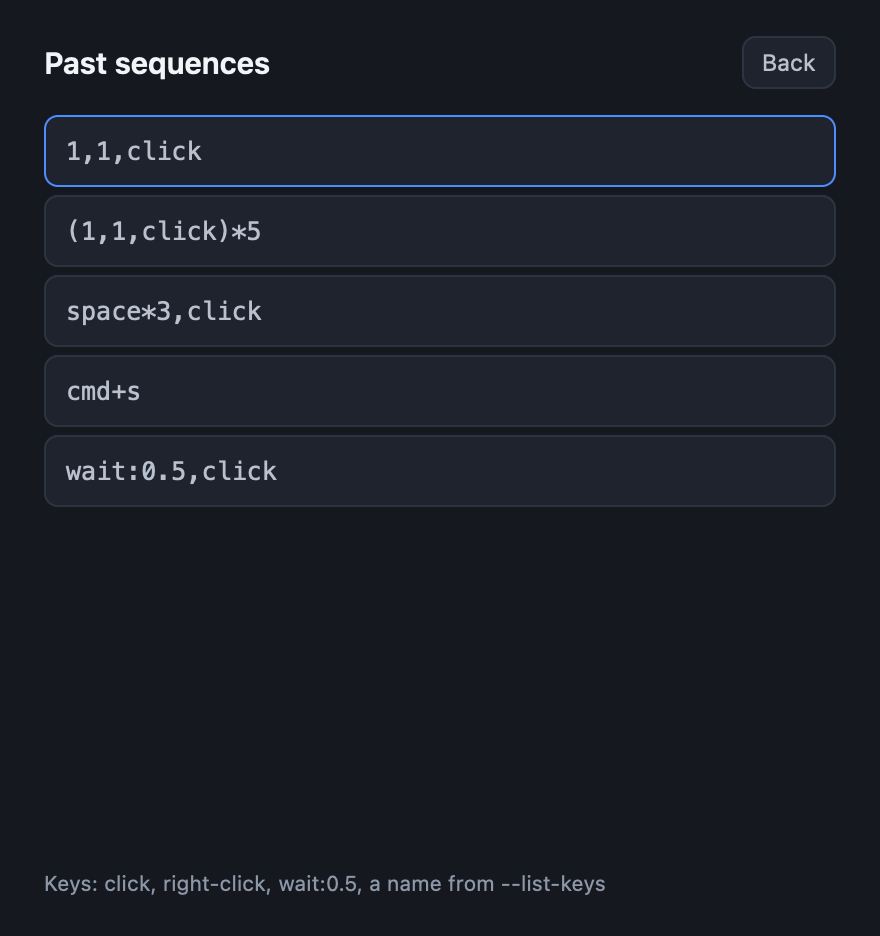
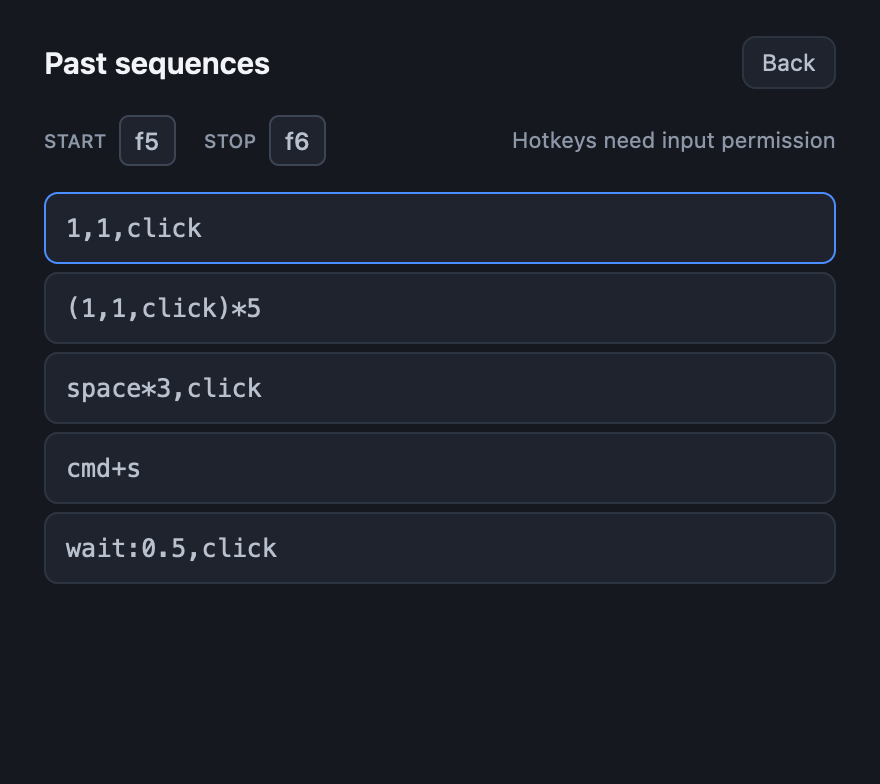
Window: one denominator, visible track, and the live action wins
A design review of the rendered screens found real arithmetic and hierarchy
faults. Fixed, each measured on the render:

- The caption read "148 of 103": the bar used the run's frozen target while the
  caption recomputed a prediction from the form. Both now read the run's target.
- The unfilled track was 1.25:1 and so invisible; it is the line_strong tier now,
  measured at 1.84:1, and the fill fraction matches the painted bar (0.34).
- Stop is what matters during a run, so it carries the accent; Run dims.
- The button label is dark on the accent at 5.85:1, up from white at 3.20:1.
- The START chip dims while a run is live, so two opposite controls no longer
  both look armed.
- An error is stated once, in the caption, not again under the field.
- The panels keep the app name and hotkey row; their footers no longer restate
  what the table above already says.
- The window is 392 tall, sized to content: the dead band went from 119px on
  idle and 168px on running to 43 and 92, and nothing clips in any state.

19 window tests pass.

diff --git a/gui/src/view.rs b/gui/src/view.rs
@@ -330,9 +330,9 @@ impl Render for ClickloopWindow {
                         .pb(px(18.0))
                         .gap(px(13.0))
                         .child(self.panel_header(&theme, cx))
+                        .child(self.hotkey_row(&theme, cx))
                         .child(self.panel_body(&theme, cx))
-                        .child(div().flex_1())
-                        .child(self.panel_footer(&theme, cx)),
+                        .child(div().flex_1()),
                 )
                 .into_any_element()
         }
@@ -386,11 +386,14 @@ impl ClickloopWindow {
     /// place the start/stop keys are stated.
     fn hotkey_row(&self, theme: &Theme, cx: &mut Context<Self>) -> impl IntoElement {
         let capturing = self.router.is_capturing();
-        let live = self.router.is_live();
+        // Two different "live": whether a run is going, and whether the OS
+        // listener is up. Keep the names apart.
+        let running = self.live();
+        let listening = self.router.is_live();
         let hint = match capturing {
             Some(Slot::Start) => "Press any key for start",
             Some(Slot::Stop) => "Press any key for stop",
-            None if !live => "Hotkeys need input permission",
+            None if !listening => "Hotkeys need input permission",
             None => "",
         };
 
@@ -408,6 +411,7 @@ impl ClickloopWindow {
                         "start",
                         &self.bindings.start,
                         capturing == Some(Slot::Start),
+                        running,
                         cx,
                         Slot::Start,
                     ))
@@ -416,6 +420,7 @@ impl ClickloopWindow {
                         "stop",
                         &self.bindings.stop,
                         capturing == Some(Slot::Stop),
+                        false,
                         cx,
                         Slot::Stop,
                     )),
@@ -446,18 +451,29 @@ impl ClickloopWindow {
             0.0
         };
 
-        let caption = if let Some(error) = &self.error {
-            format!("{error}")
-        } else if live {
+        // The caption and the bar read the same denominator: the target the run
+        // froze when it started. A fresh prediction from the form can disagree
+        // with it, which is how "148 of 103" happened.
+        let caption = if live {
             let done = self.cycles();
-            let total = self
+            let frozen = self
+                .run
+                .as_ref()
+                .map(|run| {
+                    run.progress
+                        .target_cycles
+                        .load(std::sync::atomic::Ordering::SeqCst)
+                })
+                .unwrap_or(0);
+            let left = self
                 .run
                 .as_ref()
                 .and_then(|run| run.progress.remaining())
                 .map(format_duration);
-            match (prediction.as_ref().and_then(|p| p.cycles), total) {
-                (Some(expected), Some(left)) => {
-                    format!("{done} of {expected} · {left} left")
+            match (frozen, left) {
+                (n, Some(left)) if n > 0 => format!("{done} of {n} · {left} left"),
+                (n, None) if n > 0 => {
+                    format!("{done} of {n} · {}", format_duration(self.elapsed()))
                 }
                 _ => format!("{done} cycles · {}", format_duration(self.elapsed())),
             }
@@ -610,13 +626,7 @@ impl ClickloopWindow {
                     .text_size(px(14.0))
                     .font_weight(gpui::FontWeight::SEMIBOLD)
                     .cursor_pointer()
-                    .hover_style(move |style| {
-                        style.bg(if live {
-                            theme.surface_hover
-                        } else {
-                            theme.accent_hover
-                        })
-                    })
+                    .hover_style(move |style| style.bg(theme.accent_hover))
                     .on_mouse_down(
                         MouseButton::Left,
                         cx.listener(|this, _, _, cx| {
@@ -778,10 +788,12 @@ fn sequence_card(
     form: &Form,
     error: &Option<String>,
 ) -> impl IntoElement {
-    let description = match (error, form.preview()) {
-        (Some(error), _) => error.clone(),
-        (None, Ok(actions)) => desc(&actions),
-        (None, Err(problem)) => problem,
+    // An error is stated once, in the progress caption, so it is not repeated
+    // here; this line only describes a sequence that parsed.
+    let description = match form.preview() {
+        Ok(actions) => desc(&actions),
+        Err(problem) if error.is_none() => problem,
+        Err(_) => String::new(),
     };
     let valid = error.is_none() && form.preview().is_ok();
     div()
@@ -835,6 +847,7 @@ fn hotkey_chip(
     label: &'static str,
     value: &str,
     capturing: bool,
+    dimmed: bool,
     cx: &mut Context<ClickloopWindow>,
     slot: Slot,
 ) -> impl IntoElement {
@@ -844,6 +857,7 @@ fn hotkey_chip(
         .items_center()
         .gap(px(6.0))
         .cursor_pointer()
+        .opacity(if dimmed { 0.45 } else { 1.0 })
         .child(
             div()
                 .text_size(px(9.5))

diff --git a/gui/src/theme.rs b/gui/src/theme.rs
@@ -51,10 +51,10 @@ impl Theme {
             accent: rgb(0x4c8dff),
             accent_hover: rgb(0x6ba0ff),
             accent_soft: rgb(0x1e2c44),
-            on_accent: rgb(0xffffff),
+            on_accent: rgb(0x0b1220),
             warn: rgb(0xf0b64a),
             danger: rgb(0xff7d72),
-            track: rgb(0x252b36),
+            track: rgb(0x3d4554),
         }
     }
 }
@@ -68,7 +68,7 @@ pub const RADIUS_KEYCAP: f32 = 5.0;
 /// The window the layout is designed for. Its height is measured from the
 /// render: content plus the bottom padding, so nothing is ever clipped.
 pub const WINDOW_WIDTH: f32 = 440.0;
-pub const WINDOW_HEIGHT: f32 = 468.0;
+pub const WINDOW_HEIGHT: f32 = 392.0;
 
 /// The same colour with a different opacity.
 pub fn with_alpha(color: Rgba, alpha: f32) -> Rgba {
